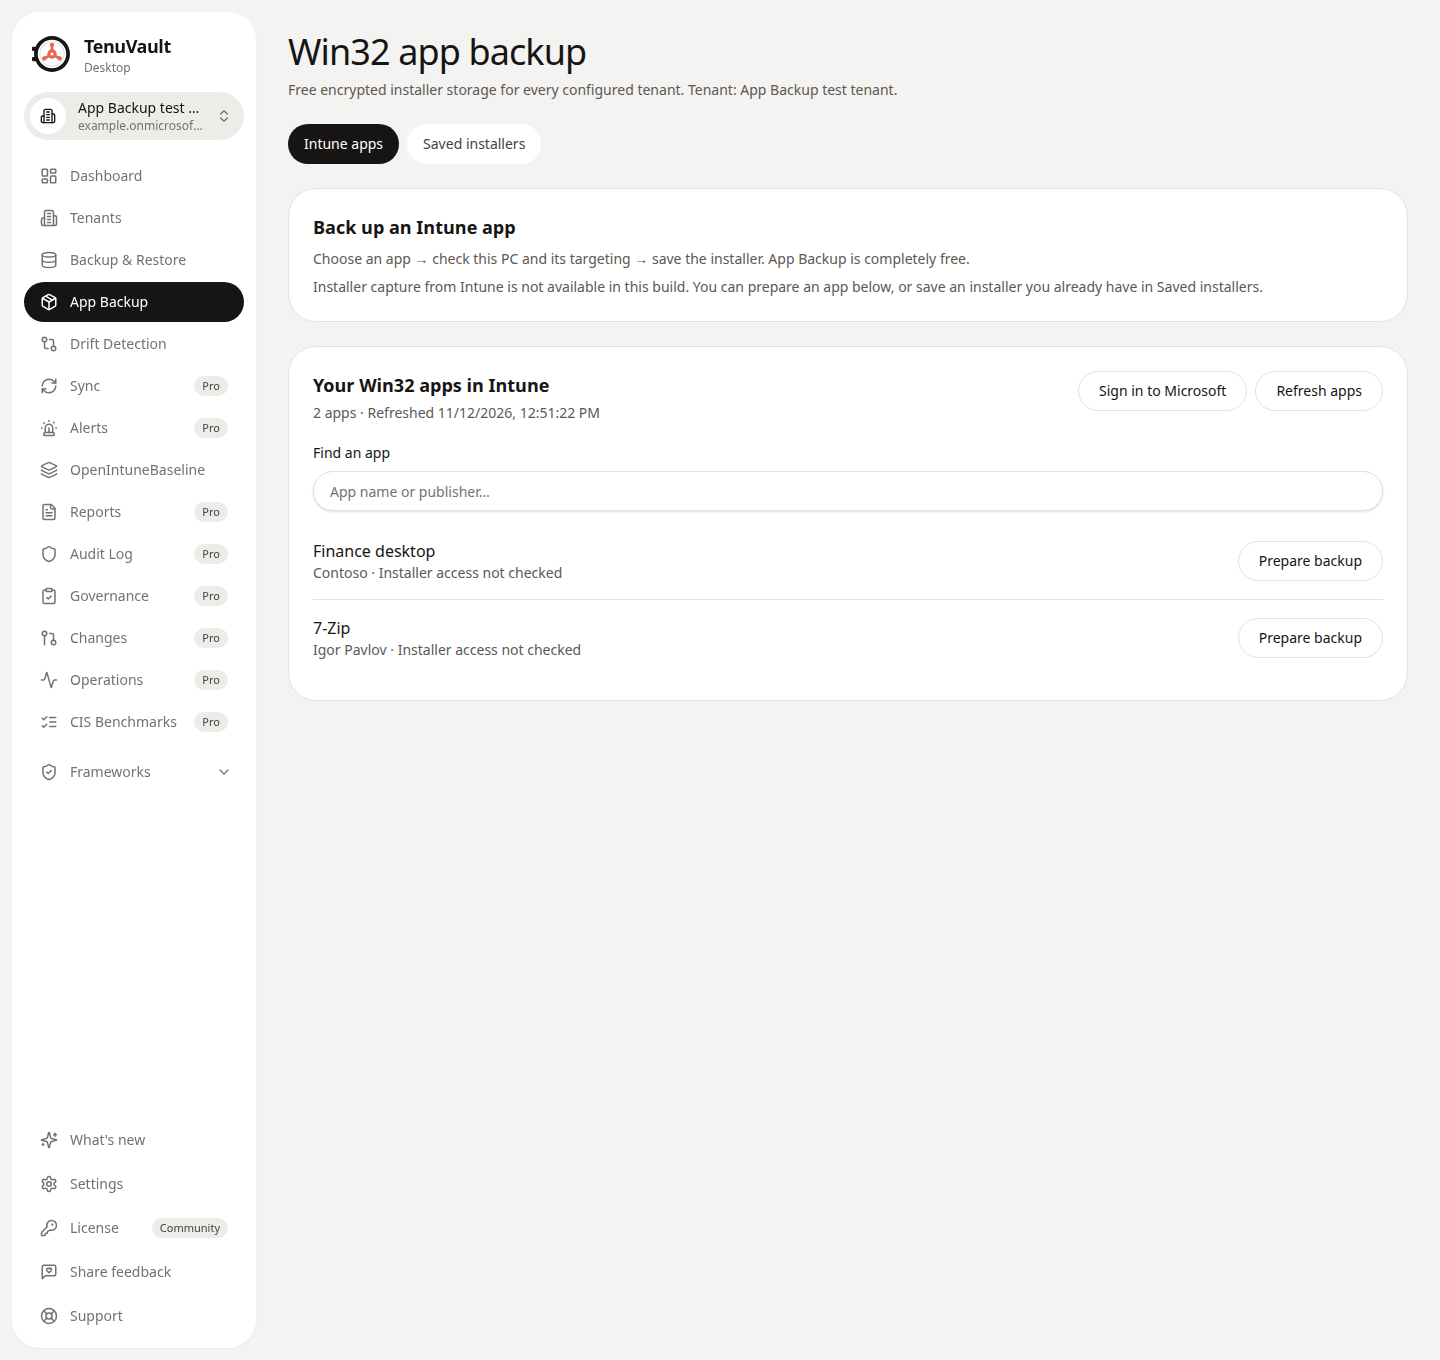
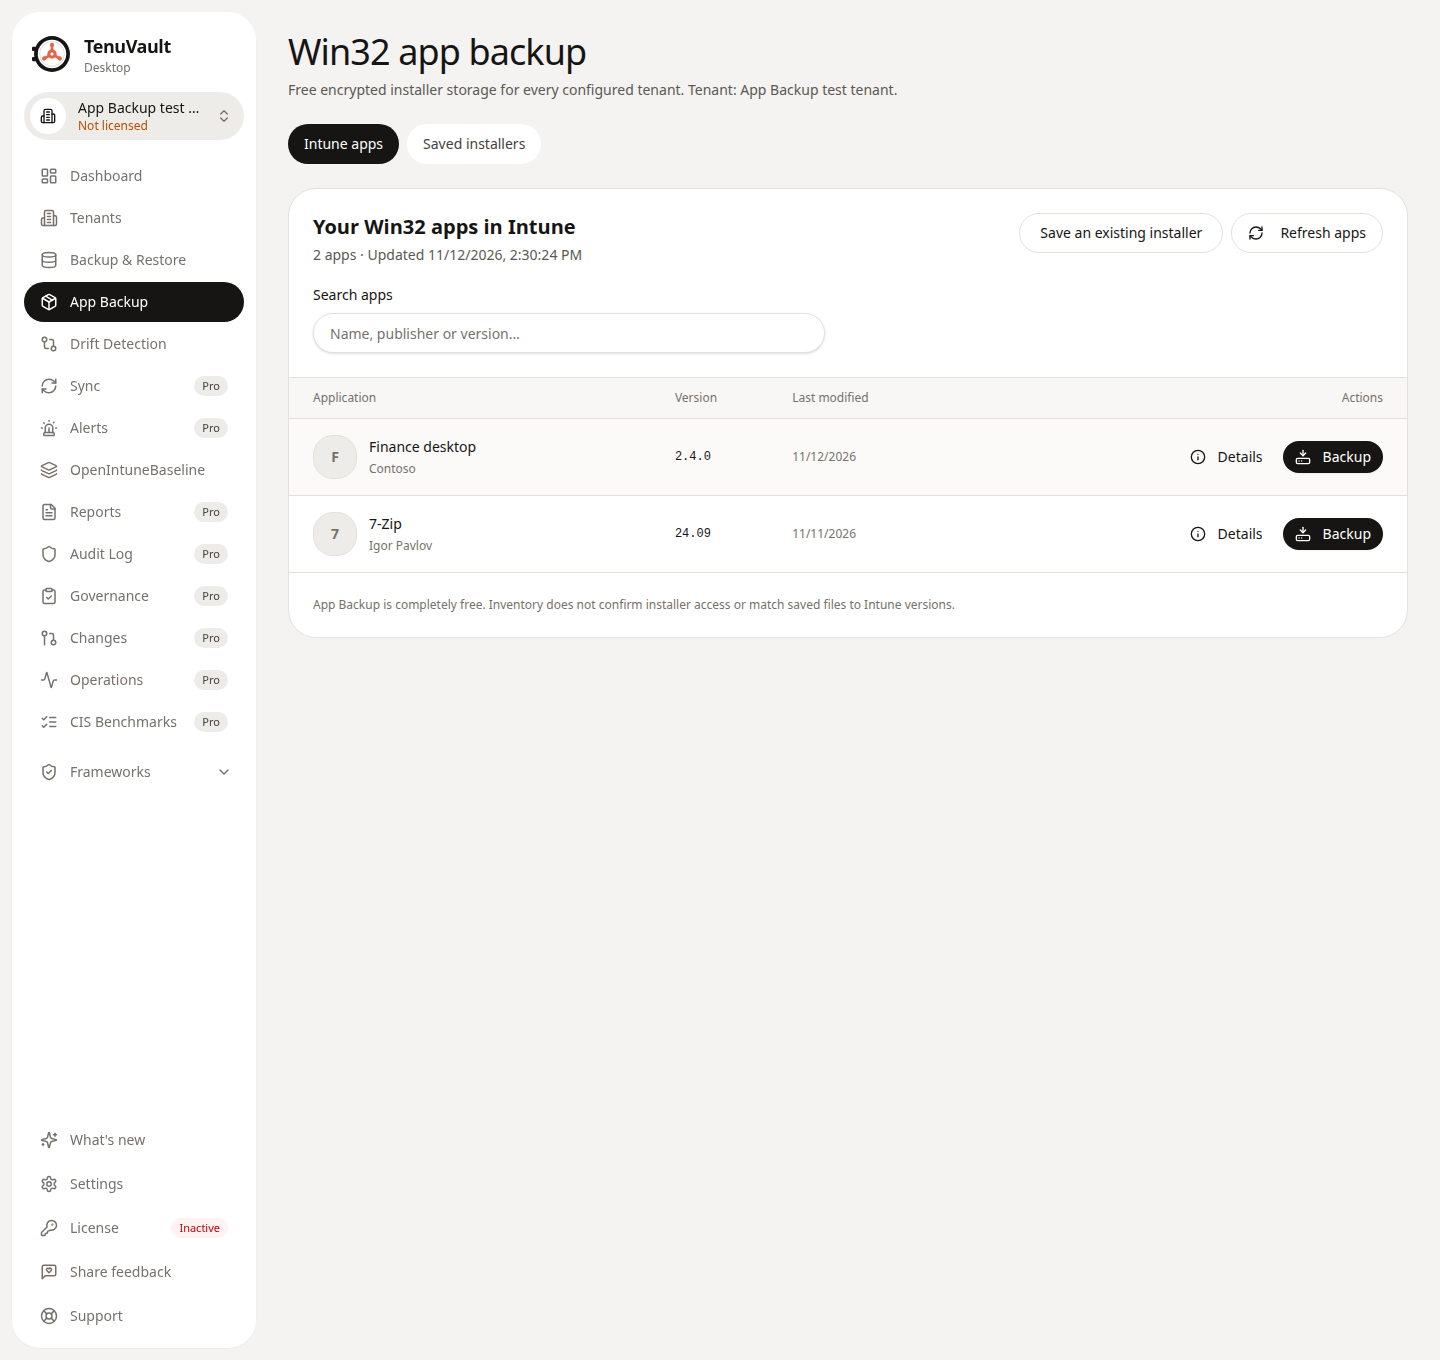
Refresh App Backup table, details and script download screenshots

diff --git a/tasks/app-backup-evidence/screenshots/README.md b/tasks/app-backup-evidence/screenshots/README.md
@@ -1,14 +1,19 @@
 # App Backup screenshots
 
-Captured from the production Electron build of commit `86fc372677c95281e00e2991b79c5e5de8fdaacd` on Linux, using a disposable synthetic tenant with no Microsoft account and no license key.
+Captured from the production Electron build of commit `53d50e3851f8ed970954302d52fb512905d72083` on Linux in a disposable synthetic tenant profile with no Microsoft token or license key.
 
-The disposable review process supplied two synthetic app descriptors for the inventory screenshots, so no real tenant app names or IDs are published. The production inventory loader itself was verified separately, read-only through Lokka Microsoft beta, including response fields, exact Win32 type discrimination, continuation paging and malformed-select errors. These screenshots do not establish delegated permission coverage or content access.
+The review process temporarily supplied synthetic account metadata, app descriptors and details so no real tenant names or object IDs are published. No interactive Microsoft sign-in or consent is established by these screenshots. The real inventory/detail endpoints were checked separately, read-only through Lokka Microsoft beta; see [verification](../app-table-beta-verification.json). That app-only connection does not establish delegated authentication or populated active-install-script coverage. Logos use initial fallbacks in these examples.
 
-Native file-picker results were supplied for temporary review folders and an independently authored `.intunewin` lab fixture. The real trusted IPC, encrypted source store, catalog and exporter ran normally. No product fixture API or bypass was added. The exported file is byte-identical to its input; [validation](validation.json) records matching SHA-256 values. Temporary data and the disposable profile were removed after capture. No tenant writes, assignment changes, installations or Intune content captures occurred.
+Native picker results pointed at disposable folders and an independently authored `.intunewin` fixture. The actual trusted IPC, encrypted source store, catalog, exporter and script-download writer ran normally. The original installer and export hashes match in [validation](validation.json). Download saved the synthetic script text with a UTF-8 BOM, and the text was checked without execution. No product fixture API was added. Temporary data/profile were removed after capture. No tenant writes, assignment changes, installations or content captures occurred.
 
-- [Intune apps, light appearance](01-intune-apps-light.png): searchable app list and clear capture availability.
-- [Selected app preparation, dark appearance](02-prepare-backup-dark.png): enrolled PC check, targeting guidance and an unavailable capture step, with manual attachment as a fallback.
-- [Original export completed, light appearance](03-export-complete-light.png): the independent offline Saved installers catalog after a real exact export.
-- [Saved installers at 1024px](04-stored-minimum-width.png): populated catalog at the supported minimum desktop width, without horizontal overflow.
+- [Signed-out entry](00-signed-out-light.png): calm reconnect state and direct offline saving path.
+- [Intune apps table](01-intune-apps-light.png): version/date, Details and right-side Backup, with no extra sign-in action after loading.
+- [Inline backup guide, dark appearance](02-prepare-backup-dark.png): working original-file save first; future capture guidance collapsed.
+- [Original export completed](03-export-complete-light.png): real byte-identical export with feedback beside the saved file.
+- [Saved installers at 1024px](04-stored-minimum-width.png): no horizontal page overflow.
+- [Empty saved catalog](05-empty-saved-light.png): file-saving form exposed by default.
+- [App details](06-app-details-light.png): overview metadata, native Print and Backup. Save PDF is absent.
+- [Installation](07-installation-details-light.png): read-only command lines and execution context.
+- [Scripts and Download](08-script-details-light.png): local download success; scripts remain unexecuted.
 
-Implemented: live Win32 inventory, preparation guidance, free offline attach/list/reconnect/exact export, a read-only Windows device check and a pure future request validator. Production content capture, elevated helper/transport, source coverage, upload and restore remain unavailable.
+Native Print is tested for success, cancellation and failure using a controlled printer surface; no physical printer job was submitted. Production installer capture, elevated helper/transport, source coverage, upload and restore remain unavailable. App Backup remains completely free for every configured tenant.
